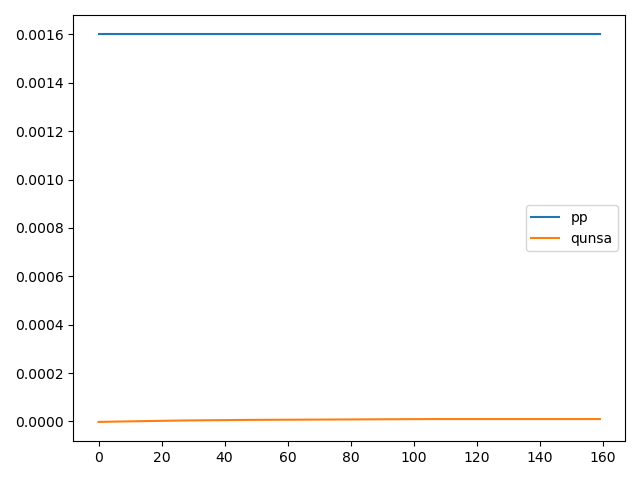
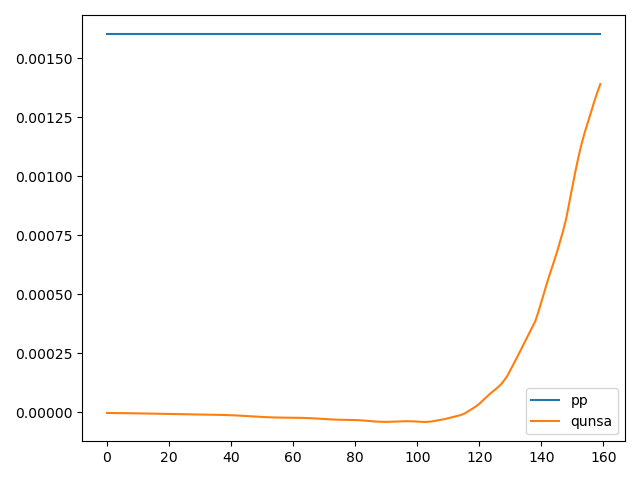
wip

diff --git a/megaswap.py b/megaswap.py
@@ -551,13 +551,13 @@ for qrch, itime in zip(qrch_ar,range(qrch_ar.size)):
             pass
         if itime < 100 and itime > 0:
             pass
-            gwl[0] = gwl[0] - 0.05 # update to new heads 0.05
+            # gwl[0] = gwl[0] - 0.05 # update to new heads 0.05
         sc1, sgwln = update_sc1(gwl, gwl_old, s, s_old, phead, sgwln)
 
             
-        #gwl_unsa[itime], ig2, fig2 = get_unsa_heads(s, sgwln, phead, gwl_old, ig)
-        #gwl[0] = gwl_unsa[itime] # debug .
-        gwl_unsa[itime] = gwl[0]
+        gwl_unsa[itime], ig2, fig2 = get_unsa_heads(s, sgwln, phead, gwl_old, ig)
+        gwl[0] = gwl_unsa[itime] # debug .
+        #gwl_unsa[itime] = gwl[0]
         
 
         qmodf[itime] = (sc1 * (gwl_old - gwl) - vsim) # doet nog niet veel op phead

diff --git a/src/mf6.py b/src/mf6.py
@@ -1,0 +1,1 @@
+ECHO is on.
